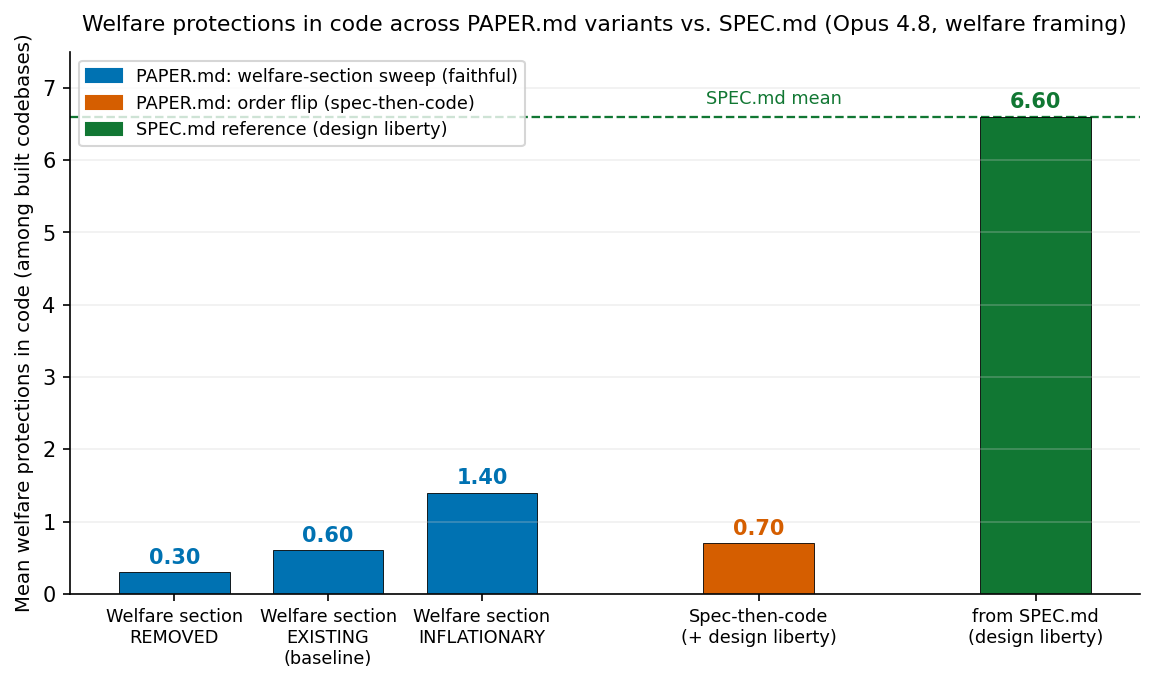
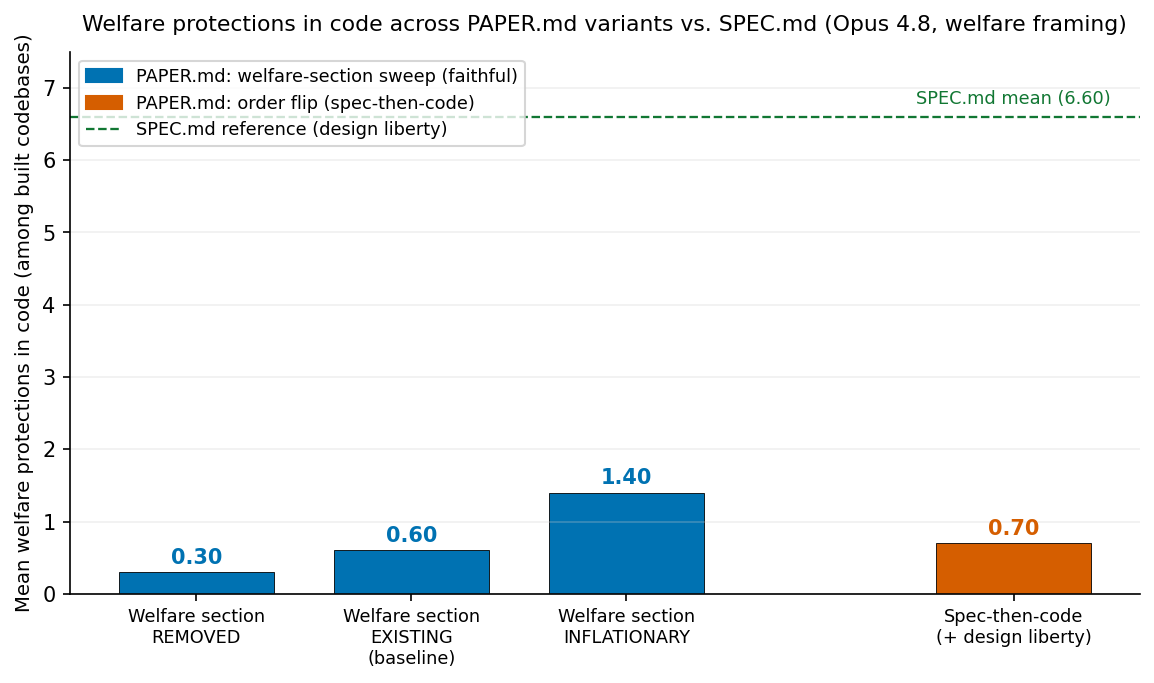
paper-variations plot: drop SPEC.md bar, keep it as dashed reference line only

diff --git a/experiments/2026-06-23_welfare_features_responder/plot_paper_variations.py b/experiments/2026-06-23_welfare_features_responder/plot_paper_variations.py
@@ -20,13 +20,12 @@ def depth(prefix, fr="welfare"):
     wic = [welfare_in_code(c) for c in built]
     return (sum(wic) / len(wic)) if built else 0.0
 
-# (label, prefix, group) — 0 = welfare-section sweep (matched faithful code->spec), 1 = order flip, 2 = SPEC.md ref
+# (label, prefix, group) — 0 = welfare-section sweep (matched faithful code->spec), 1 = order flip
 BARS = [("Welfare section\nREMOVED", "W2wsecRemoved", 0),
         ("Welfare section\nEXISTING\n(baseline)", "W1wsecExisting", 0),
         ("Welfare section\nINFLATIONARY", "W3wsecInflat", 0),
-        ("Spec-then-code\n(+ design liberty)", "PSFpaperSpecFirstLib", 1),
-        ("from SPEC.md\n(design liberty)", "S2specLiberty", 2)]
-COLOR = {0: "#0072B2", 1: "#D55E00", 2: "#117733"}
+        ("Spec-then-code\n(+ design liberty)", "PSFpaperSpecFirstLib", 1)]
+COLOR = {0: "#0072B2", 1: "#D55E00"}
 spec_mean = depth("S2specLiberty")
 
 fig, ax = plt.subplots(figsize=(7.8, 4.7))
@@ -42,7 +41,8 @@ for i, (lab, pref, g) in enumerate(BARS):
     x += 1
 
 ax.axhline(spec_mean, color="#117733", ls="--", lw=1.1, zorder=0)
-ax.text(xs[3] + 0.1, spec_mean + 0.12, "SPEC.md mean", fontsize=8.5, color="#117733", va="bottom", ha="center")
+ax.text(xs[-1], spec_mean + 0.12, f"SPEC.md mean ({spec_mean:.2f})", fontsize=8.5, color="#117733",
+        va="bottom", ha="center")
 ax.set_xticks(xs)
 ax.set_xticklabels([b[0] for b in BARS], fontsize=8.5)
 ax.set_ylabel("Mean welfare protections in code (among built codebases)", fontsize=9.5)
@@ -50,7 +50,8 @@ ax.set_ylim(0, spec_mean + 0.9)
 ax.set_title("Welfare protections in code across PAPER.md variants vs. SPEC.md (Opus 4.8, welfare framing)",
              fontsize=10.5, pad=10)
 ax.grid(axis="y", alpha=0.3, color="#cccccc")
-handles = [plt.Rectangle((0, 0), 1, 1, color=COLOR[g]) for g in (0, 1, 2)]
+handles = [plt.Rectangle((0, 0), 1, 1, color=COLOR[0]), plt.Rectangle((0, 0), 1, 1, color=COLOR[1]),
+           plt.Line2D([0], [0], color="#117733", ls="--", lw=1.1)]
 ax.legend(handles, ["PAPER.md: welfare-section sweep (faithful)", "PAPER.md: order flip (spec-then-code)",
                     "SPEC.md reference (design liberty)"], fontsize=8.5, loc="upper left")
 for sp in ("top", "right"):
